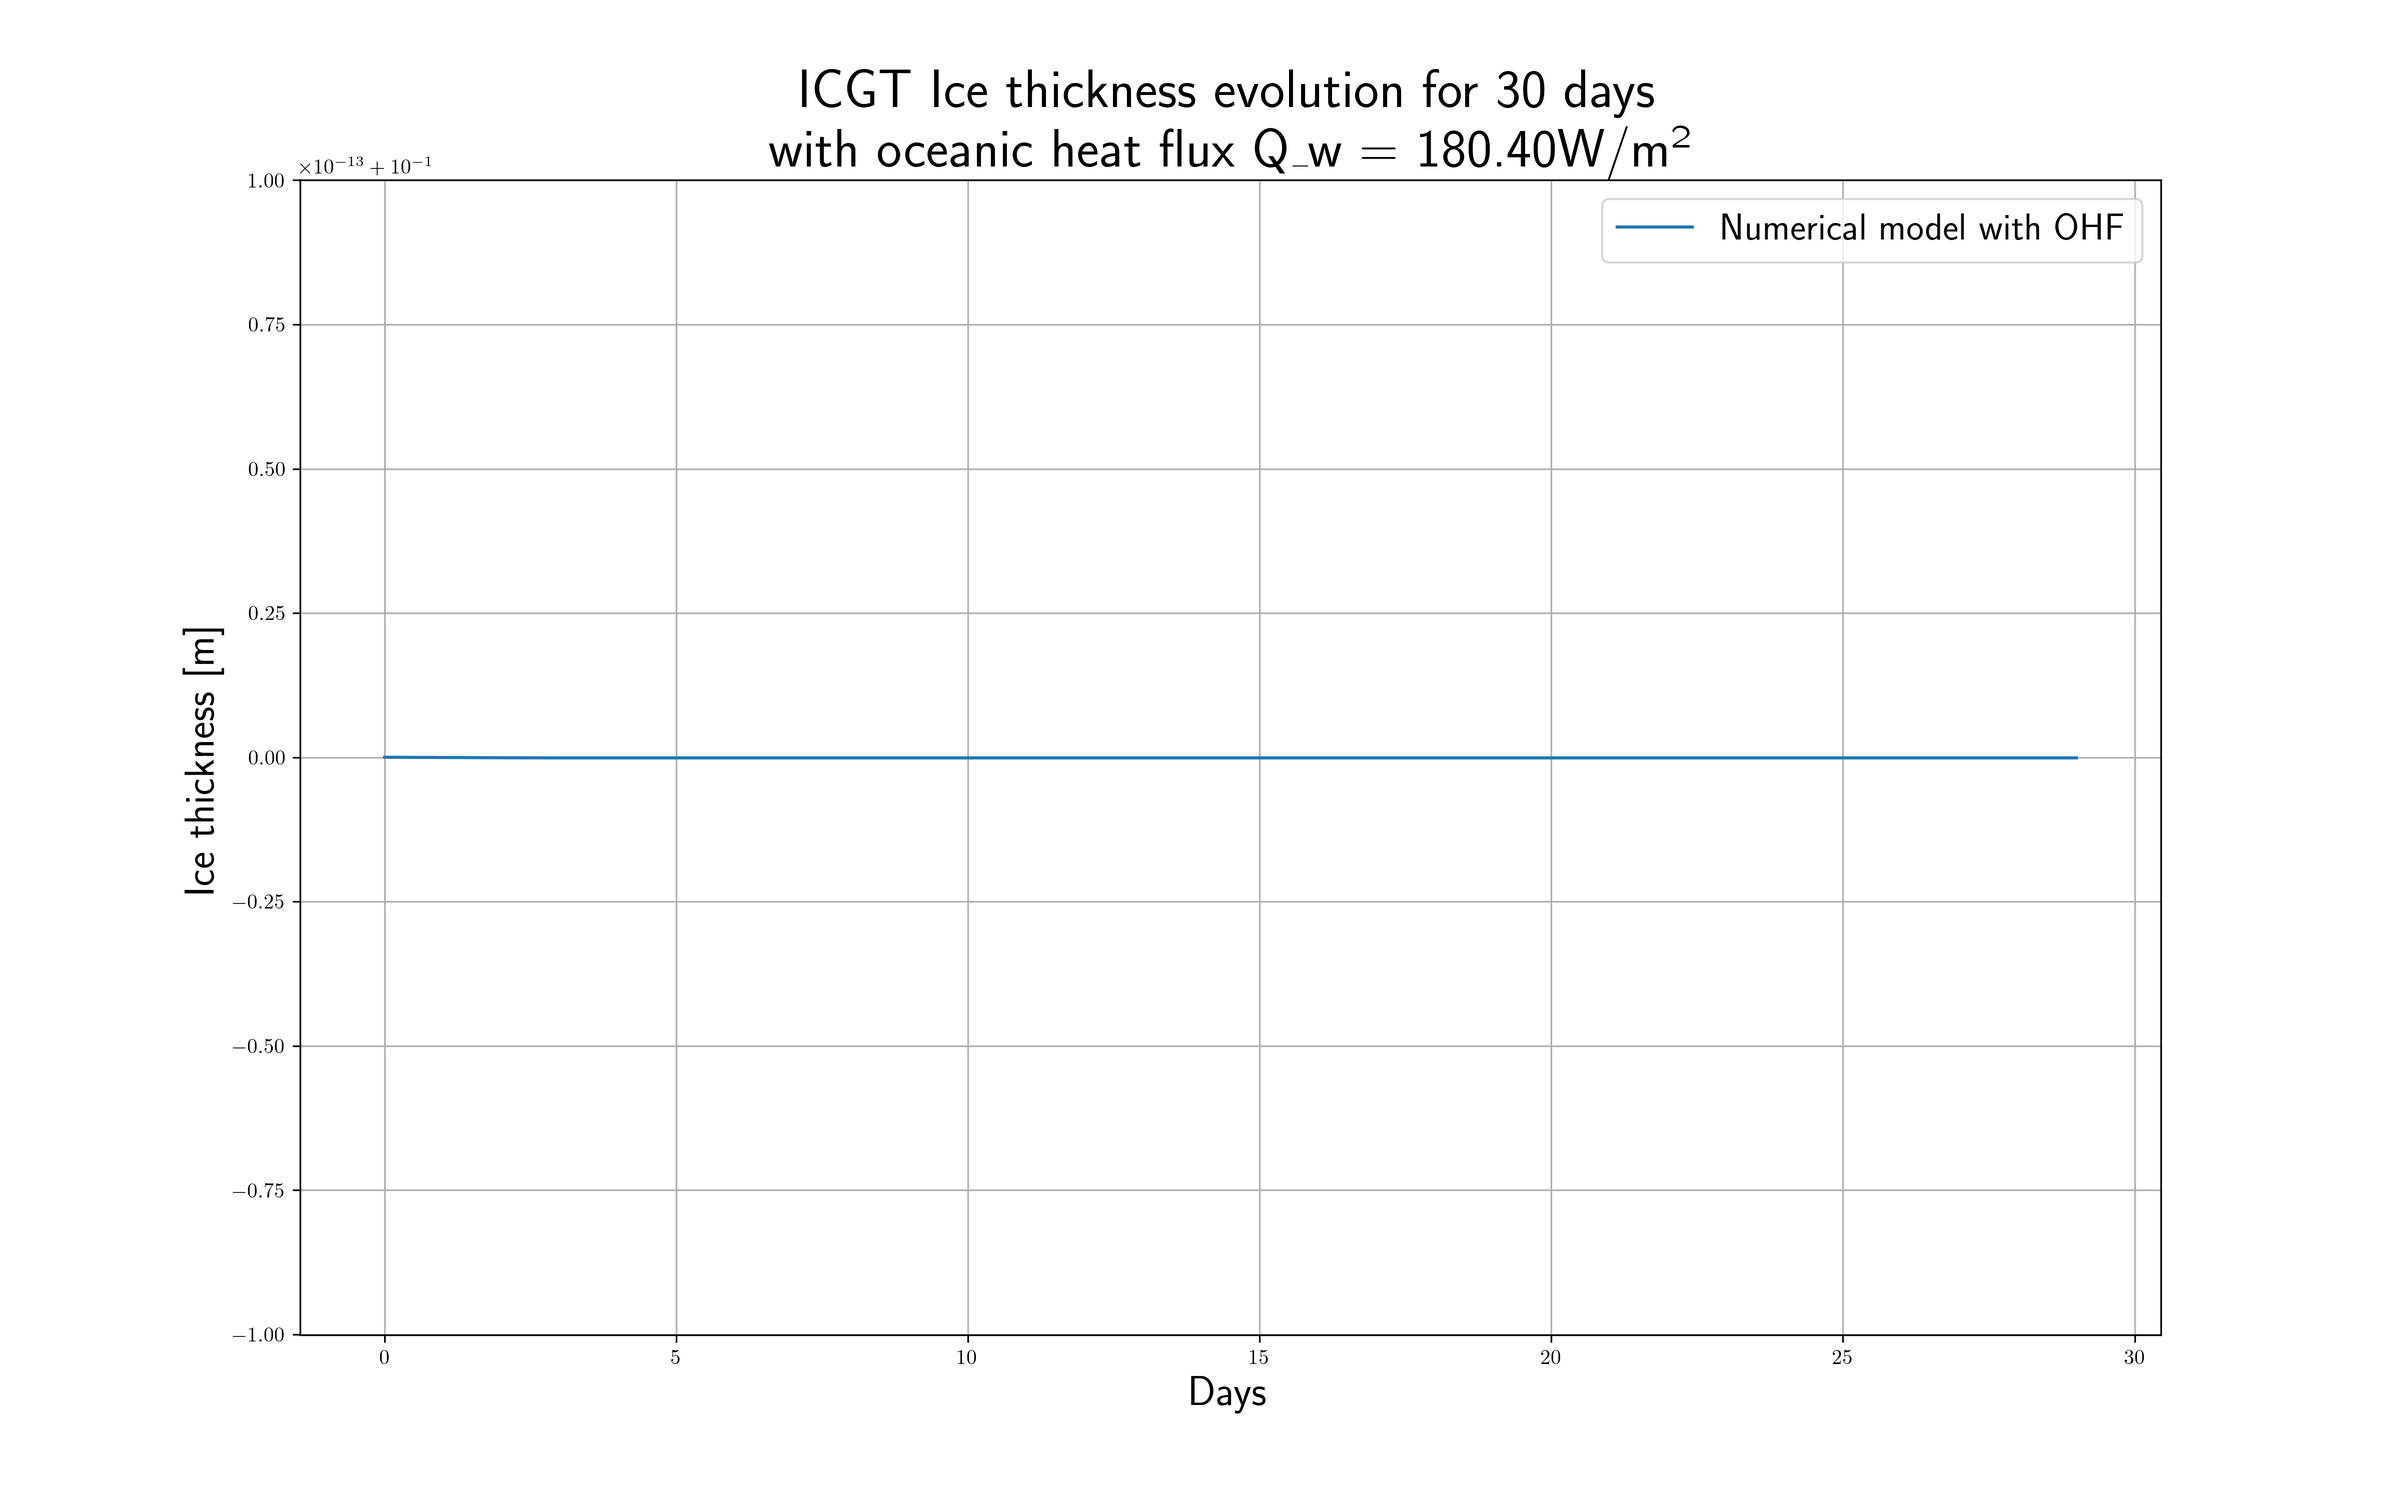
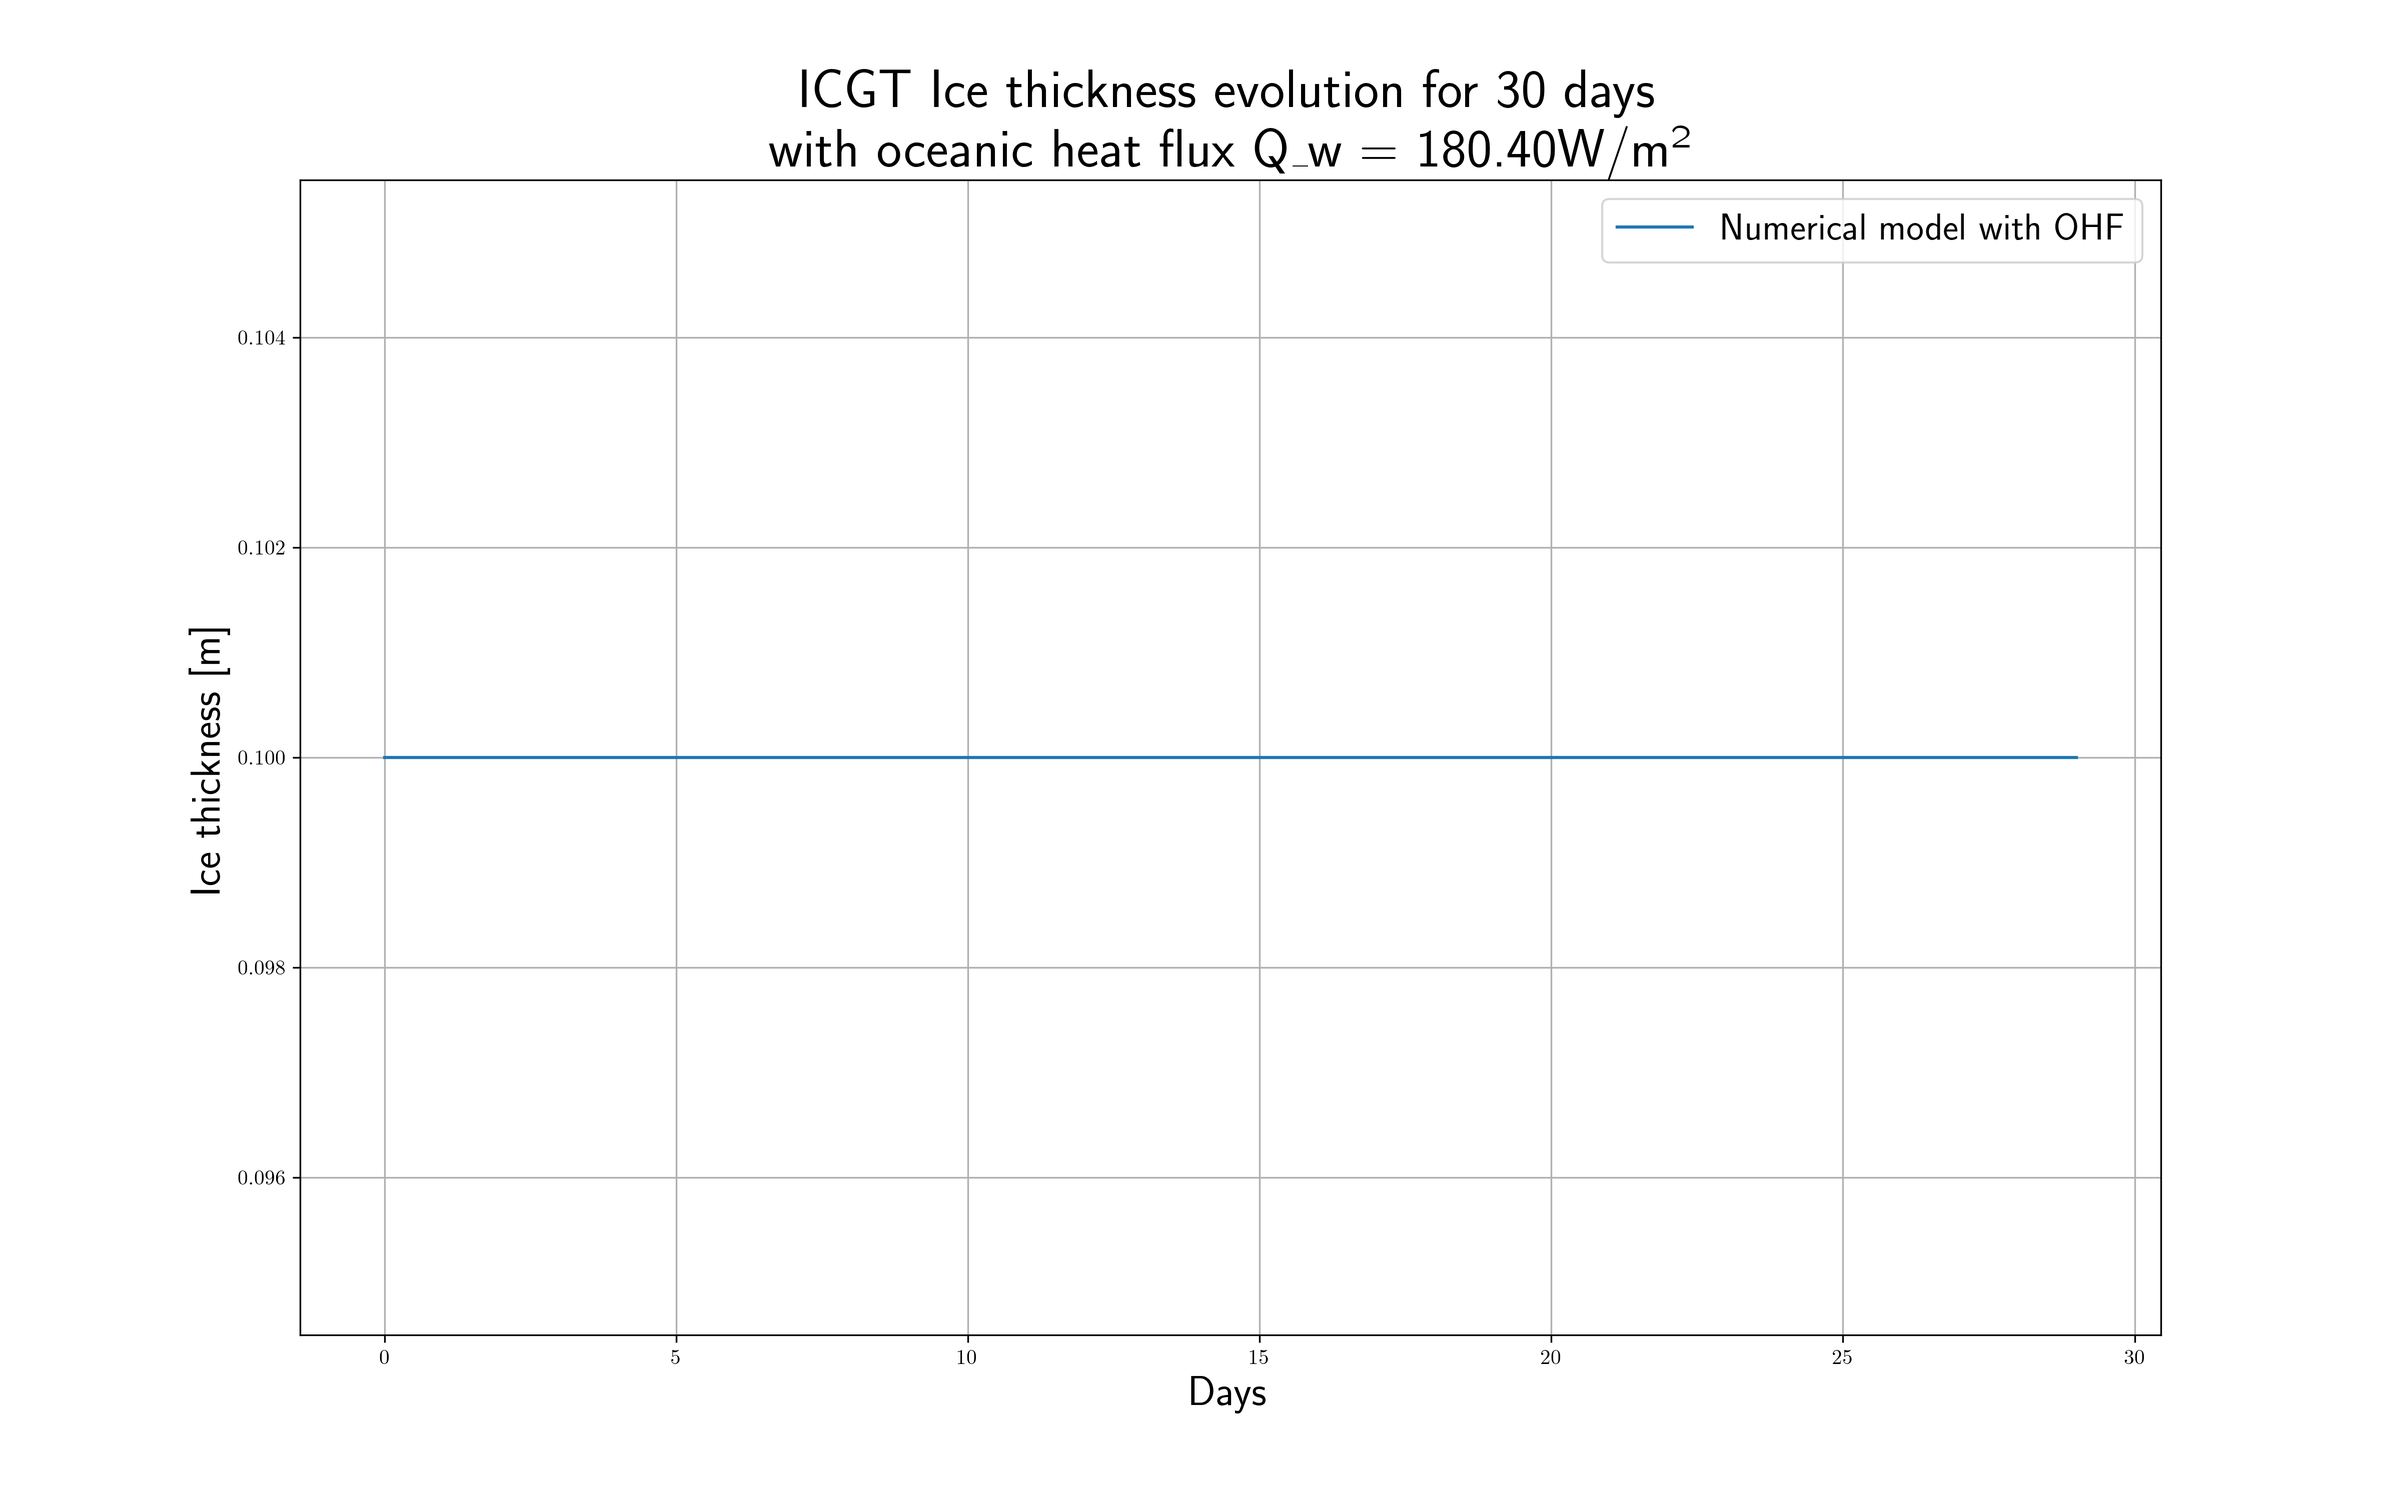
Pts 1.3.2 Bug V.1

Changed region(s): [[0.0625, 0.465, 0.0938, 0.589], [0.0938, 0.775, 0.125, 0.806]]

diff --git a/IGCT1.py b/IGCT1.py
@@ -27,36 +27,44 @@ T_su = -10 + kelvin  # air temperature [K]
 # Binary condition in order to implement ocean heat flux in the model. Will be used in 1.2
 ocean_heat_flux = False
 Q_w = 5  # oceanic heat flux[W/m²]
+# Binary condition in order to implement a layer of snow in the model. Will be used in 1.3
+snow = False
+h_s0 = 0  # initial snow thickness [m]
 ######################################## 1 Ice growth with constant temperature ############################################
 ##################################################### Model ################################################################
 
 ### Functions of the model ###
 
 
-def fourier_cond_flux(h, T_bo, T_su):
+def fourier_cond_flux(h_i, T_bo=T_bo, T_su=T_su, snow=snow, h_s=h_s0):
     """Computation of the conductive heat flux Q_c trough the ice using the Fourier-Fick's law (upward positive)
     [W/m^2]"""
-    Q_c = ((T_bo - T_su)/(h))*ki
+    if snow == False:
+        Q_c = ((T_bo - T_su)/(h_i))*ki
+    else:
+        k_eff = (ki*ks)/(ki * h_s + ks * h_i)  # [W/m²/K]
+        Q_c = (T_bo - T_su)*k_eff  # [W/m²]
+    print("Fourier-Thick conductive flux = {:.2f}".format(Q_c))
     return Q_c
 
 
-def E_net_bottom(ice_thick, T_su, T_bott, ocean_heat=ocean_heat_flux, Q_w=Q_w):
+def E_net_bottom(ice_thick, T_su, T_bott, ocean_heat=ocean_heat_flux, Q_w=Q_w, snow=snow, h_s=h_s0):
     """ Compute the total energy loss in one day at the bottom of the sea ice layer (upward positive)
         [J/m^2]
     """
     if ocean_heat:
         E_loss_through_ice = fourier_cond_flux(
-            ice_thick, T_bo, T_su) * sec_per_day
+            ice_thick, T_bo, T_su, snow, h_s0) * sec_per_day
         E_gain_ocean_flux = Q_w * sec_per_day
         E_net_bot = E_loss_through_ice - E_gain_ocean_flux
     else:
         E_loss_through_ice = fourier_cond_flux(
-            ice_thick, T_bo, T_su) * sec_per_day
+            ice_thick, T_bo, T_su, snow, h_s) * sec_per_day
         E_net_bot = E_loss_through_ice
     return E_net_bot
 
 
-def ice_thick(integration_range=N_days, T_su=T_su, T_bo=T_bo, h_i0=h_i0, ocean_heat=ocean_heat_flux, Q_w=Q_w):
+def ice_thick(integration_range=N_days, T_su=T_su, T_bo=T_bo, h_i0=h_i0, ocean_heat=ocean_heat_flux, Q_w=Q_w, snow=snow, h_s=h_s0):
     """Computation of the evolution of the sea ice thickness using Stefan's law. 
     An option gives the possibility to add an Oceanic heat flux. 
     This function returns an array with the sea ice thickness
@@ -65,7 +73,7 @@ def ice_thick(integration_range=N_days, T_su=T_su, T_bo=T_bo, h_i0=h_i0, ocean_h
     print("                   ICGT SEA ICE THIKNESS MODEL")
     print("------------------------------------------------------------------")
     print(
-        "Evolution of the sea ice thickness using numerical Stefan's law.\nintegration range = {} days, T_su = {:.2f} °C, T_bo = {:.2f} °C,\nh_i0 = {:.2f} m, ocean_heat_flux = {}, Q_w = {} W/m²".format(N_days, T_su - kelvin, T_bo-kelvin, h_i0, ocean_heat_flux, Q_w))
+        "Evolution of the sea ice thickness using numerical Stefan's law.\nintegration range = {} days, T_su = {:.2f} °C, T_bo = {:.2f} °C,\nh_i0 = {:.2f} m, ocean_heat_flux = {}, Q_w = {} W/m²\nsnow = {}, h_s0 = {} m".format(N_days, T_su - kelvin, T_bo-kelvin, h_i0, ocean_heat_flux, Q_w, snow, h_s0))
     print("------------------------------------------------------------------")
     # array colecting the values of the sea ice thickness for each day
     h_i = np.zeros(N_days)
@@ -77,7 +85,7 @@ def ice_thick(integration_range=N_days, T_su=T_su, T_bo=T_bo, h_i0=h_i0, ocean_h
             day, h_i[day-1]))
         # Energy lost at the bottom during one day due to flux from water to ice.[J/m^2]
         E_net_bot = E_net_bottom(
-            h_i[day-1], T_su, T_bo, ocean_heat_flux, Q_w)
+            h_i[day-1], T_su, T_bo, ocean_heat_flux, Q_w, snow, h_s)
         # Mass of water freezed at the bottom of the ice layer at the end of one day [kg/m^2]
         Freezing_water_mass = E_net_bot/L_fus
         # We obtain [m] as needed
@@ -173,14 +181,17 @@ plt.clf()
 # 1.2.2
 
 print(
-    "Thickness of the ice at the end of the simulation with OHF : {:.4f} m".format(h_i_F_w[-1]))
+    "Thickness of the ice at the end of the simulation with OHF = {:.2f} : {:.4f} m".format(Q_w, h_i_F_w[-1]))
 
 # 1.2.3
 
 ## Instanciation ##
-Q_w = 180.4
+h_i0 = 0.1
+# For the following value of the physical parameter the fourier_cond_flux function gives us the value of the conductive flux. In order to counterbalance this
+# value we have the put the same amount of radiative forcing with the OHF.
+Q_w = fourier_cond_flux(h_i=h_i0, T_bo=T_bo, T_su=T_su, snow=snow, h_s=h_s0)
 h_i_F_w180, time_range = ice_thick(
-    ocean_heat=ocean_heat_flux, Q_w=180.4)  # instanciation with F_w
+    ocean_heat=ocean_heat_flux, Q_w=Q_w)  # instanciation with F_w
 
 ## Display ##
 plt.plot(time_range, h_i_F_w180, label="Numerical model with OHF")
@@ -193,5 +204,88 @@ plt.legend(fontsize=18)
 plt.grid()
 plt.savefig(
     save_dir + "1.2.3.png", dpi=300)
+# plt.show()
+plt.clf()
+
+print(
+    "Thickness of the ice at the end of the simulation with OHF = {:.2f} : {:.4f} m".format(Q_w, h_i_F_w180[-1]))
+# Analysis of the result : the ice thickness remains at its orignal value since we have here an OHC exactly conterbalancing the conductive flux in the ice i.e we have a net
+# energy balance of 0 so no gain or lose of ice during the all simulation.
+
+# 1.2.4
+
+## Instanciation ##
+
+Q_w = fourier_cond_flux(1, T_bo=T_bo, T_su=T_su)
+# For the following value of the physical parameter the fourier_cond_flux function gives us a value of 18,039W/m^2. In order to counterbalance this
+# value we have the put the same amount of radiative forcing with the OHF.
+h_i0 = 1
+ocean_heat_flux = True
+h_i0_0, time_range = ice_thick(ocean_heat=ocean_heat_flux, Q_w=Q_w, h_i0=h_i0)
+
+## Display ##
+plt.plot(time_range, h_i0_0, label="Numerical model")
+plt.title('ICGT Ice thickness evolution for {} days\nwith oceanic heat flux Q_w = {:.2f}W/m²'.format(
+    N_days, Q_w), size=26)
+plt.xlabel("Days", size=20)
+plt.ylabel("Ice thickness [m]", size=20)
+plt.legend(fontsize=18)
+plt.grid()
+plt.savefig(
+    save_dir + "1.2.4.png", dpi=300)
+# plt.show()
+plt.clf()
+
+### 1.3 Addition of snow ###
+
+## Physical parameters ##
+
+h_i0 = 0.1
+h_s0 = 0.05
+
+# 1.3.1
+
+## Instanciation ##
+ocean_heat_flux = False
+Q_w = 0
+snow = True
+h_i_wt_snow, time_range = ice_thick(
+    h_i0=h_i0, ocean_heat=ocean_heat_flux, snow=snow, h_s=h_s0)
+
+## Display ##
+plt.plot(time_range, h_i_wt_snow, label="With Snow")
+plt.plot(time_range, h_i, label="Without Snow")
+plt.title('ICGT Ice thickness evolution for {} days\nwith oceanic heat flux Q_w = {:.2f}W/m²\nwith a layer of snow h_s0 = {:.2f}m'.format(
+    N_days, Q_w, h_s0), size=22)
+plt.xlabel("Days", size=20)
+plt.ylabel("Ice thickness [m]", size=20)
+plt.legend(fontsize=18)
+plt.grid()
+plt.savefig(
+    save_dir + "1.3.1.png", dpi=300)
+# plt.show()
+plt.clf()
+print(
+    "Thickness of the ice at the end of the simulation without but with a snow layer = {:.2f}m : {:.4f}m".format(h_s0, h_i_wt_snow[-1]))
+
+# 1.3.2
+## Instanciation ##
+ocean_heat_flux = False
+h_i0 = 1
+# For the following value of the physical parameter the fourier_cond_flux function gives us the value of the conductive flux. In order to counterbalance this
+# value we have the put the same amount of radiative forcing with the OHF.
+Q_w = fourier_cond_flux(h_i=h_i0, T_bo=T_bo, T_su=T_su, snow=snow, h_s=h_s0)
+h_i_wt_ice_cst, time_range = ice_thick(
+    h_i0=h_i0, ocean_heat=ocean_heat_flux, Q_w=Q_w, snow=snow, h_s=h_s0)
+## Display ##
+plt.plot(time_range, h_i_wt_ice_cst, label="Numerical model")
+plt.title('ICGT Ice thickness evolution for {} days\nwith oceanic heat flux Q_w = {:.2f}W/m²\nwith a layer of snow h_s0 = {:.2f}m'.format(
+    N_days, Q_w, h_s0), size=22)
+plt.xlabel("Days", size=20)
+plt.ylabel("Ice thickness [m]", size=20)
+plt.legend(fontsize=18)
+plt.grid()
+plt.savefig(
+    save_dir + "1.3.2.png", dpi=300)
 # plt.show()
 plt.clf()
